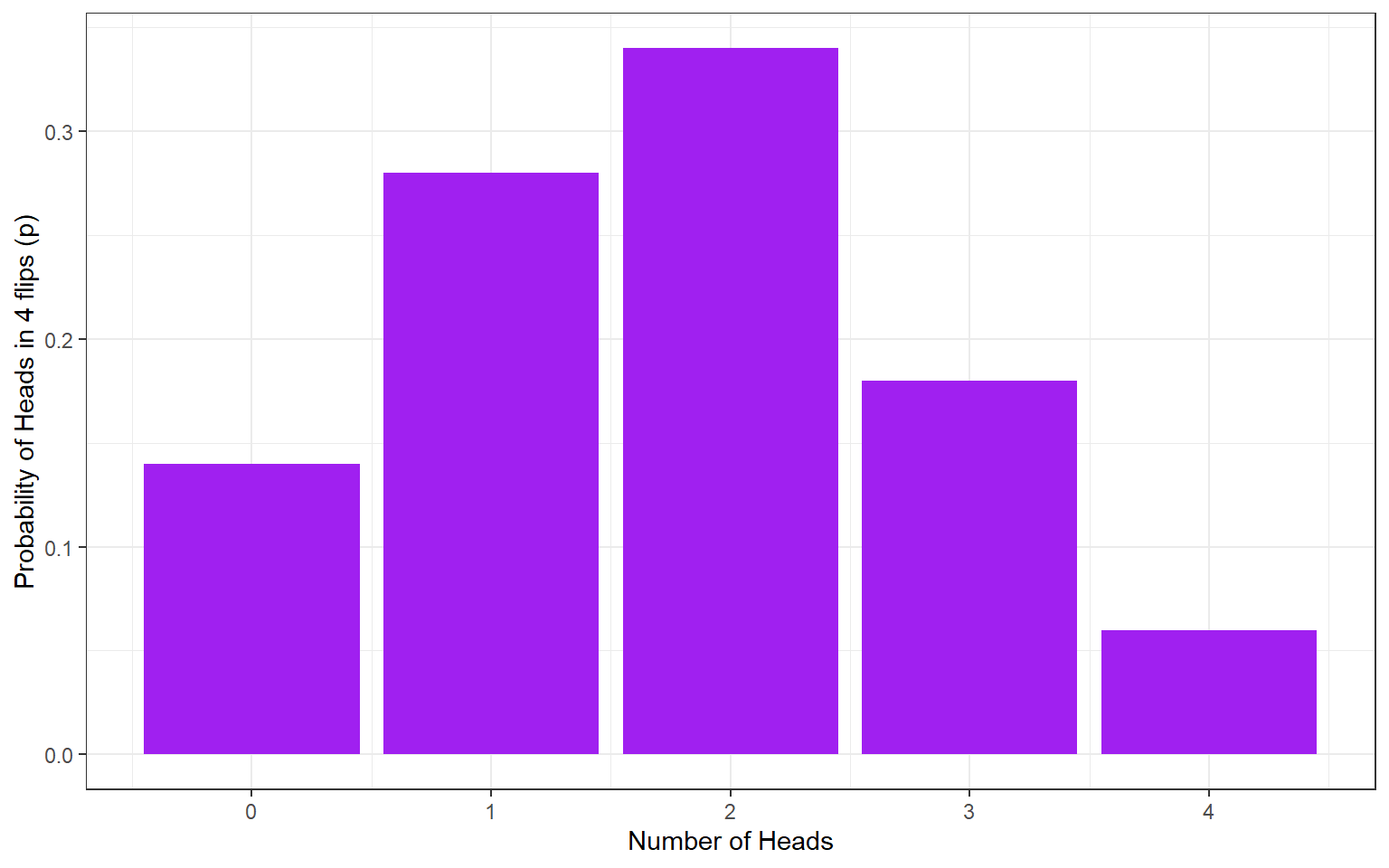
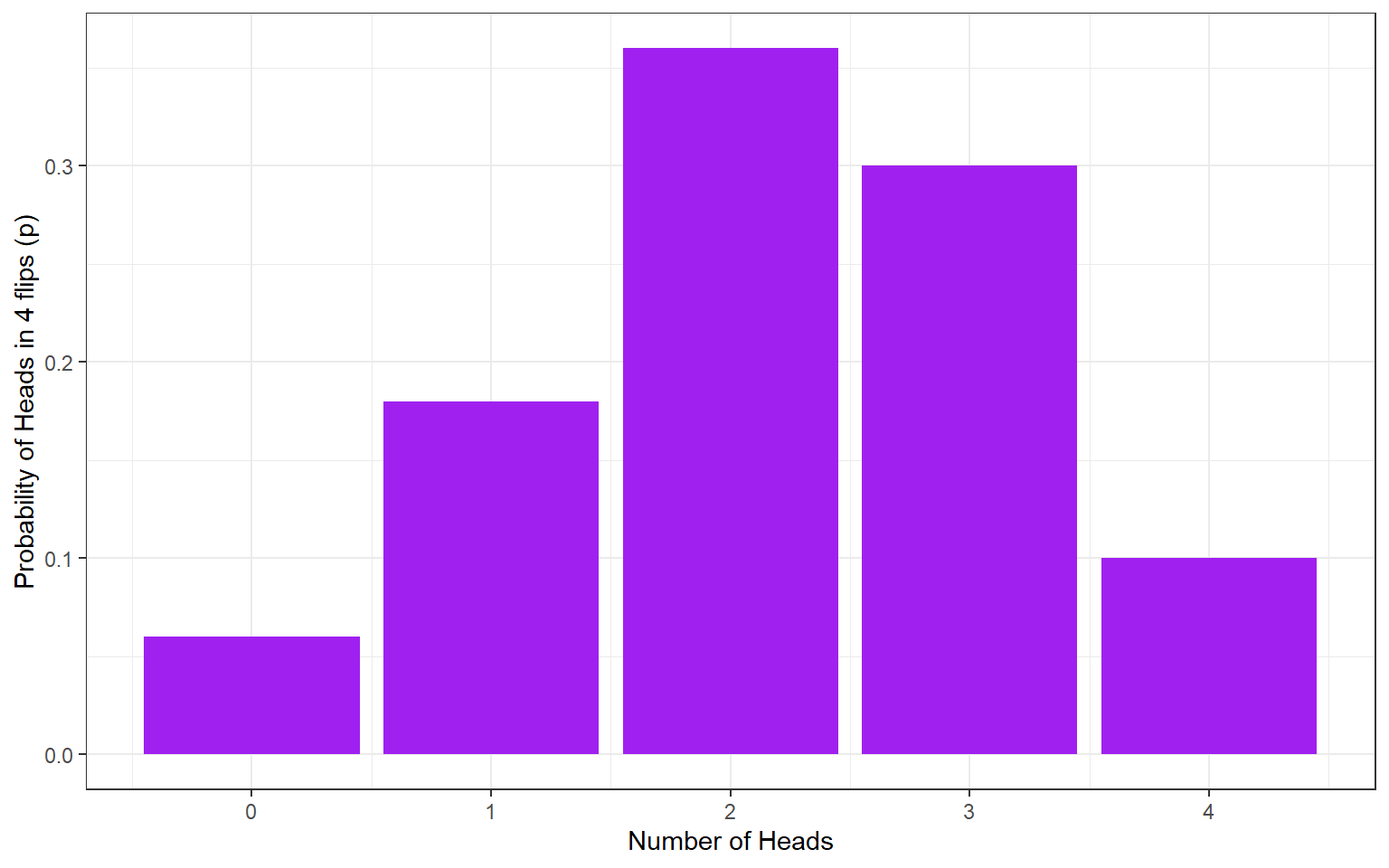
re-render

diff --git a/docs/lab-7.html b/docs/lab-7.html
@@ -325,13 +325,13 @@ For example, what is the probability of randomly drawing your name out of a hat 
 <pre class="sourceCode r"><code class="sourceCode r"><span class="co"># Notice that because our event labels are strings (text), </span>
 <span class="co"># we need to enter them into the function as a vector; i.e. in &quot;quotes&quot; </span>
 <span class="kw">sample</span>(<span class="dt">x =</span> <span class="kw">c</span>(<span class="st">&quot;HEADS&quot;</span>, <span class="st">&quot;TAILS&quot;</span>), <span class="dt">size =</span> <span class="dv">4</span>, <span class="dt">replace =</span> <span class="ot">TRUE</span>) </code></pre>
-<pre><code>## [1] &quot;TAILS&quot; &quot;HEADS&quot; &quot;TAILS&quot; &quot;TAILS&quot;</code></pre>
+<pre><code>## [1] &quot;HEADS&quot; &quot;TAILS&quot; &quot;HEADS&quot; &quot;TAILS&quot;</code></pre>
 <p>What you have done here is tell R that you want to sample observations from a set of data, which in this case was our vector <code>c("HEADS", "TAILS")</code>. <code>size</code> tells R the number of samples you want to take. We chose four, which is larger than the size of the vector itself (it has only two components; HEADS and TAILS). For this reason we need to override the default setting, which is sampling without replacement. Sampling without replacement means that once an observation appears in the sample, it is removed from the source vector so that it can’t be drawn again. Sampling with replacement means that an observation is retained so it can be drawn again. In this case, if we don’t override the default it would mean that if we tossed HEADS we wouldn’t be able to toss the coin and get HEADS again and we would get an error message because we’ve asked for more observations than are possible (we override this by setting replace to TRUE)</p>
 <p>It will make our lives easier if we define heads as one and tails as zero and write the same command as follows:</p>
 <pre class="sourceCode r"><code class="sourceCode r"><span class="co"># Now that our event labels are numeric, we don&#39;t need the combine function `c`</span>
 <span class="co"># 0:1 means all numbers from 0 to 1 in steps of 1. So basically, 0 and 1.</span>
 <span class="kw">sample</span>(<span class="dv">0</span><span class="op">:</span><span class="dv">1</span>, <span class="dv">4</span>, <span class="ot">TRUE</span>)</code></pre>
-<pre><code>## [1] 0 0 1 0</code></pre>
+<pre><code>## [1] 1 1 1 0</code></pre>
 </div>
 <div id="activity-4-sum" class="section level3">
 <h3><span class="header-section-number">7.1.8</span> Activity 4: sum</h3>
@@ -340,7 +340,7 @@ For example, what is the probability of randomly drawing your name out of a hat 
 <span class="co">#then the function sum() which counts up the number of heads.</span>
 
 <span class="kw">sample</span>(<span class="dv">0</span><span class="op">:</span><span class="dv">1</span>, <span class="dv">4</span>, <span class="ot">TRUE</span>) <span class="op">%&gt;%</span><span class="st"> </span><span class="kw">sum</span>()</code></pre>
-<pre><code>## [1] 2</code></pre>
+<pre><code>## [1] 3</code></pre>
 <p>Run this function multiple times (you can use the up arrow in the console to avoid having to type it over and over). I ran it five times the results of my little (N = 5) simulation of flipping four coins and counting heads were: 1, 3, 2, 2, and 3. So in only one out of the five simulations did I get exactly one heads.</p>
 </div>
 <div id="activity-5-replicate-1" class="section level3">
@@ -348,7 +348,7 @@ For example, what is the probability of randomly drawing your name out of a hat 
 <p>Let’s repeat the experiment a whole bunch more times. We can have R do this over and over again using the replicate() function from base R. The basic syntax of replicate() is replicate(number_of_times, expression_you_want_to_replicate). So</p>
 <pre class="sourceCode r"><code class="sourceCode r"><span class="co"># repeats the expression sample(0:1, 4, TRUE) %&gt;% sum() 20 times; the result comes out as a vector with each number represents a count of the number of heads over four flips in each of the 20 ’experiments’.</span>
 <span class="kw">replicate</span>(<span class="dt">n =</span> <span class="dv">20</span>, <span class="dt">expr =</span> <span class="kw">sample</span>(<span class="dv">0</span><span class="op">:</span><span class="dv">1</span>, <span class="dv">4</span>, <span class="ot">TRUE</span>) <span class="op">%&gt;%</span><span class="st"> </span><span class="kw">sum</span>())</code></pre>
-<pre><code>##  [1] 1 1 4 3 1 1 3 2 3 2 3 3 2 1 1 3 1 2 2 3</code></pre>
+<pre><code>##  [1] 4 0 2 3 3 0 1 2 3 2 4 2 1 1 1 4 0 2 3 1</code></pre>
 </div>
 <div id="monte-carlo-simulation" class="section level3">
 <h3><span class="header-section-number">7.1.10</span> Monte Carlo simulation</h3>
@@ -362,8 +362,8 @@ For example, what is the probability of randomly drawing your name out of a hat 
 heads50
 <span class="co"># this time we save the output in the variable heads50</span>
 <span class="co"># so we can work with the results further</span></code></pre>
-<pre><code>##  [1] 2 3 3 4 1 1 1 1 3 2 2 1 3 3 1 0 0 2 2 0 3 3 2 2 4 2 2 1 1 3 1 1 2 2 2
-## [36] 2 0 3 1 2 2 0 0 1 4 1 2 2 1 0</code></pre>
+<pre><code>##  [1] 1 1 3 2 3 3 2 2 3 0 4 2 3 1 3 2 2 2 2 1 3 2 3 1 0 2 3 3 2 2 3 4 1 3 2
+## [36] 4 2 1 0 1 3 3 2 2 2 2 4 1 4 3</code></pre>
 <p>Each of these numbers represents the number of heads from 4 coin tosses, repeated 50 times. The first 2 data points tell us that they each produced heads twice. Your results may differ, since sample() is random. In this case, four of the experiments yielded the outcome of 4/4 heads.</p>
 </div>
 <div id="activity-7-probability" class="section level3">
@@ -376,11 +376,11 @@ heads50
 <pre><code>## # A tibble: 5 x 3
 ##   heads     n     p
 ##   &lt;int&gt; &lt;int&gt; &lt;dbl&gt;
-## 1     0     7  0.14
-## 2     1    14  0.28
-## 3     2    17  0.34
-## 4     3     9  0.18
-## 5     4     3  0.06</code></pre>
+## 1     0     3  0.06
+## 2     1     9  0.18
+## 3     2    18  0.36
+## 4     3    15  0.3 
+## 5     4     5  0.1</code></pre>
 <p>What we have done here is created a variable <strong>heads50</strong> in a new tibble object that contains the results from our 50 experiments, grouped it by the values in <strong>heads50</strong> (0, 1, 2, 3, or 4), and counted the number of times each value was observed in summarise(n = n()), and then calculated the probability by dividing the newly created variable n by the number of experiments (50).</p>
 </div>
 <div id="activity-8-visualisation" class="section level3">
@@ -425,7 +425,7 @@ Figure 7.2: 10K coin toss probability outcomes.
 <pre><code>## # A tibble: 1 x 1
 ##      p2
 ##   &lt;dbl&gt;
-## 1 0.683</code></pre>
+## 1 0.685</code></pre>
 <p>You can add probabilities for various outcomes together as long as the outcomes are mutually exclusive, that is, when one outcome occurs, the others can’t occur. For this coin flipping example, this is obviously the case: you can’t simultaneously get exactly two and exactly three heads as the outcome of a single experiment. However, be aware that you can’t simply add probabilities together when the events in question are not mutually exclusive: for example, the probability of the coin landing heads up, and it landing with the image of the head being in a particular orientation are not mutually exclusive, and can’t be simply added together.</p>
 <p>Additionally, the probabilities we get from Monte Carlo simulations are just estimates; we need something more definitive.</p>
 </div>

diff --git a/docs/lab-4.html b/docs/lab-4.html
@@ -294,11 +294,11 @@ Visualisation is a fundamentally human activity. A good visualisation will show 
 <h3><span class="header-section-number">4.1.1</span> <span style="color:DARKGREEN"> dplyr Recap</span></h3>
 <p>In <a href="lab-3.html">Lab 3</a> we were introduced to the tidyverse package, <code>dplyr</code>, and its six important functions. As a recap, which function(s) would you use to approach each of the following problems?</p>
 <ul>
-<li><p>We have a dataset of 400 adults, but we want to remove anyone with an age of 50 years or more. To do this, we could use the <select class='solveme' data-answer='["filter()"]'> <option></option> <option>group_by()</option> <option>mutate()</option> <option>arrange()</option> <option>filter()</option> <option>summarise()</option> <option>select()</option></select> function.</p></li>
-<li><p>We are interested in overall summary statistics for our data, such as the overall average and total number of observations. To do this, we could use the <select class='solveme' data-answer='["summarise()"]'> <option></option> <option>select()</option> <option>filter()</option> <option>arrange()</option> <option>group_by()</option> <option>mutate()</option> <option>summarise()</option></select> function.</p></li>
-<li><p>Our dataset has a column with the number of cats a person has, and a column with the number of dogs. We want to calculate a new column which contains the total number of pets each participant has. To do this, we could use the <select class='solveme' data-answer='["mutate()"]'> <option></option> <option>summarise()</option> <option>arrange()</option> <option>select()</option> <option>filter()</option> <option>group_by()</option> <option>mutate()</option></select> function.</p></li>
-<li><p>We want to calculate the average for each participant in our dataset. To do this we could use the <select class='solveme' data-answer='["group_by() and summarise()"]'> <option></option> <option>arrange() and mutate()</option> <option>group_by() and arrange()</option> <option>group_by() and summarise()</option> <option>filter() and select()</option></select> functions.</p></li>
-<li><p>We want to order a dataframe of participants by the number of cats that they own, but want our new dataframe to only contain some of our columns. To do this we could use the <select class='solveme' data-answer='["mutate() and filter()","arrange() and select()"]'> <option></option> <option>mutate() and filter()</option> <option>select() and summarise()</option> <option>arrange() and select()</option> <option>group_by() and mutate()</option></select> functions.</p></li>
+<li><p>We have a dataset of 400 adults, but we want to remove anyone with an age of 50 years or more. To do this, we could use the <select class='solveme' data-answer='["filter()"]'> <option></option> <option>summarise()</option> <option>group_by()</option> <option>arrange()</option> <option>select()</option> <option>filter()</option> <option>mutate()</option></select> function.</p></li>
+<li><p>We are interested in overall summary statistics for our data, such as the overall average and total number of observations. To do this, we could use the <select class='solveme' data-answer='["summarise()"]'> <option></option> <option>select()</option> <option>group_by()</option> <option>filter()</option> <option>summarise()</option> <option>arrange()</option> <option>mutate()</option></select> function.</p></li>
+<li><p>Our dataset has a column with the number of cats a person has, and a column with the number of dogs. We want to calculate a new column which contains the total number of pets each participant has. To do this, we could use the <select class='solveme' data-answer='["mutate()"]'> <option></option> <option>group_by()</option> <option>mutate()</option> <option>select()</option> <option>arrange()</option> <option>filter()</option> <option>summarise()</option></select> function.</p></li>
+<li><p>We want to calculate the average for each participant in our dataset. To do this we could use the <select class='solveme' data-answer='["group_by() and summarise()"]'> <option></option> <option>arrange() and mutate()</option> <option>filter() and select()</option> <option>group_by() and summarise()</option> <option>group_by() and arrange()</option></select> functions.</p></li>
+<li><p>We want to order a dataframe of participants by the number of cats that they own, but want our new dataframe to only contain some of our columns. To do this we could use the <select class='solveme' data-answer='["arrange() and select()","mutate() and filter()"]'> <option></option> <option>select() and summarise()</option> <option>group_by() and mutate()</option> <option>arrange() and select()</option> <option>mutate() and filter()</option></select> functions.</p></li>
 </ul>
 </div>
 <div id="intro-to-plotting" class="section level3">

diff --git a/docs/lab-8.html b/docs/lab-8.html
@@ -293,10 +293,10 @@ code span.wa { color: #60a0b0; font-weight: bold; font-style: italic; } /* Warni
 <h4><span class="header-section-number">8.1.1.1</span> <span style="color:DARKGREEN"> Quickfire Questions</span></h4>
 <p>What kinds of data are the following examples of?</p>
 <ul>
-<li>Time taken to run a marathon (in seconds): <select class='solveme' data-answer='["ratio"]'> <option></option> <option>ordinal</option> <option>interval</option> <option>categorical</option> <option>ratio</option></select></li>
-<li>Finishing position in marathon (e.g. 1st, 2nd, 3rd): <select class='solveme' data-answer='["ordinal"]'> <option></option> <option>categorical</option> <option>ratio</option> <option>interval</option> <option>ordinal</option></select></li>
-<li>Which Sesame Street character a runner was dressed as: <select class='solveme' data-answer='["categorical"]'> <option></option> <option>interval</option> <option>ratio</option> <option>categorical</option> <option>ordinal</option></select></li>
-<li>Temperature of a runner dressed in a cookie monster outfit (in degrees Celsius): <select class='solveme' data-answer='["interval"]'> <option></option> <option>categorical</option> <option>interval</option> <option>ordinal</option> <option>ratio</option></select></li>
+<li>Time taken to run a marathon (in seconds): <select class='solveme' data-answer='["ratio"]'> <option></option> <option>categorical</option> <option>ordinal</option> <option>ratio</option> <option>interval</option></select></li>
+<li>Finishing position in marathon (e.g. 1st, 2nd, 3rd): <select class='solveme' data-answer='["ordinal"]'> <option></option> <option>categorical</option> <option>interval</option> <option>ordinal</option> <option>ratio</option></select></li>
+<li>Which Sesame Street character a runner was dressed as: <select class='solveme' data-answer='["categorical"]'> <option></option> <option>categorical</option> <option>ordinal</option> <option>interval</option> <option>ratio</option></select></li>
+<li>Temperature of a runner dressed in a cookie monster outfit (in degrees Celsius): <select class='solveme' data-answer='["interval"]'> <option></option> <option>categorical</option> <option>ratio</option> <option>ordinal</option> <option>interval</option></select></li>
 </ul>
 </div>
 </div>
@@ -327,9 +327,9 @@ Figure 2.1: A simulation of an experiment collecting height data from 2000 parti
 <h4><span class="header-section-number">8.1.3.1</span> <span style="color:DARKGREEN"> Quickfire Questions</span></h4>
 <p>Complete the sentences so that they are correct.</p>
 <ul>
-<li>In a normal distribution, the mean, median, and mode <select class='solveme' data-answer='["are all equal"]'> <option></option> <option>are all equal</option> <option>sum to zero</option> <option>are always interval data</option></select>.</li>
-<li>An example of data in which you might expect to see a normal distribution is <select class='solveme' data-answer='["the number of goals scored by Leeds United F.C."]'> <option></option> <option>the number of people who are right handed</option> <option>the number of heads observed out of 10 coin flips</option> <option>the number of goals scored by Leeds United F.C.</option></select>.</li>
-<li>Whereas the binomial distribution is based on situations in which there are two possible outcomes, the normal distribution is based on situations in which the data <select class='solveme' data-answer='["is a continuous variable"]'> <option></option> <option>is a categorical variable</option> <option>is a continuous variable</option> <option>has three possible values</option></select>.</li>
+<li>In a normal distribution, the mean, median, and mode <select class='solveme' data-answer='["are all equal"]'> <option></option> <option>are all equal</option> <option>are always interval data</option> <option>sum to zero</option></select>.</li>
+<li>An example of data in which you might expect to see a normal distribution is <select class='solveme' data-answer='["the number of goals scored by Leeds United F.C."]'> <option></option> <option>the number of people who are right handed</option> <option>the number of goals scored by Leeds United F.C.</option> <option>the number of heads observed out of 10 coin flips</option></select>.</li>
+<li>Whereas the binomial distribution is based on situations in which there are two possible outcomes, the normal distribution is based on situations in which the data <select class='solveme' data-answer='["is a continuous variable"]'> <option></option> <option>has three possible values</option> <option>is a categorical variable</option> <option>is a continuous variable</option></select>.</li>
 </ul>
 </div>
 </div>

diff --git a/docs/lab-6.html b/docs/lab-6.html
@@ -330,8 +330,8 @@ When you’re completing assessments and we want you to save the output from a c
 </div>
 <div id="quickfire-questions-1" class="section level4">
 <h4><span class="header-section-number">6.1.1.1</span> <span style="color:DARKGREEN"> Quickfire Questions</span></h4>
-<p>Which of the following is a pipe? <select class='solveme' data-answer='["%>%"]'> <option></option> <option>&gt;</option> <option>%&gt;%</option> <option>&amp;</option> <option>==</option></select></p>
-<p>Where do pipes send the result of the function that precedes the pipe? <select class='solveme' data-answer='["To the first argument of the next function."]'> <option></option> <option>To the third argument of the 18th function.</option> <option>To the first argument of the next function.</option> <option>To the last argument of the next function.</option> <option>To Ibiza.</option></select></p>
+<p>Which of the following is a pipe? <select class='solveme' data-answer='["%>%"]'> <option></option> <option>&amp;</option> <option>%&gt;%</option> <option>&gt;</option> <option>==</option></select></p>
+<p>Where do pipes send the result of the function that precedes the pipe? <select class='solveme' data-answer='["To the first argument of the next function."]'> <option></option> <option>To Ibiza.</option> <option>To the first argument of the next function.</option> <option>To the last argument of the next function.</option> <option>To the third argument of the 18th function.</option></select></p>
 <p>Are pipes a super-cool feature of the tidyverse that makes your code more readable and less verbose? <select class='solveme' data-answer='["yes","yes","yes","yes"]'> <option></option> <option>yes</option> <option>yes</option> <option>yes</option> <option>yes</option></select></p>
 </div>
 </div>
@@ -371,6 +371,21 @@ Solution
 </button>
 <pre class="sourceCode r"><code class="sourceCode r">rlong &lt;-<span class="st"> </span><span class="kw">gather</span>(<span class="dt">data =</span> responses, <span class="dt">key =</span> Question, <span class="dt">value =</span> Response, Q1<span class="op">:</span>Q10)</code></pre>
 </div>
+<div class="solution">
+<button>
+What should it look like?
+</button>
+<p>The first few rows should look like this:</p>
+<pre><code>## # A tibble: 6 x 3
+##      Id Question Response           
+##   &lt;dbl&gt; &lt;chr&gt;    &lt;chr&gt;              
+## 1    16 Q1       Slightly Disagree  
+## 2    17 Q1       Definitely Agree   
+## 3    18 Q1       Definitely Agree   
+## 4    19 Q1       Definitely Agree   
+## 5    20 Q1       Definitely Disagree
+## 6    21 Q1       Slightly Disagree</code></pre>
+</div>
 </div>
 <div id="activity-4-inner_join-qformat" class="section level3">
 <h3><span class="header-section-number">6.2.4</span> Activity 4: inner_join (QFormat)</h3>
@@ -385,6 +400,7 @@ Solution
 <button>
 What should it look like?
 </button>
+<p>The first few rows should look like this:</p>
 <pre><code>## # A tibble: 6 x 4
 ##      Id Question Response            QFormat
 ##   &lt;dbl&gt; &lt;chr&gt;    &lt;chr&gt;               &lt;chr&gt;  
@@ -409,6 +425,7 @@ Solution
 <button>
 What should it look like?
 </button>
+<p>The first few rows should look like this:</p>
 <pre><code>## # A tibble: 6 x 5
 ##      Id Question Response            QFormat Score
 ##   &lt;dbl&gt; &lt;chr&gt;    &lt;chr&gt;               &lt;chr&gt;   &lt;dbl&gt;
@@ -443,6 +460,7 @@ Solution
 <button>
 What should it look like?
 </button>
+<p>The first few rows should look like this:</p>
 <pre><code>## # A tibble: 6 x 2
 ##      Id    AQ
 ##   &lt;dbl&gt; &lt;dbl&gt;

diff --git a/docs/lab-2.html b/docs/lab-2.html
@@ -329,9 +329,9 @@ Figure 2.3: Setting your working directory
 <div id="quickfire-questions" class="section level4">
 <h4><span class="header-section-number">2.1.3.1</span> <span style="color:DARKGREEN"> Quickfire Questions</span></h4>
 <ul>
-<li><p>Which of the following is most likely to be an argument? <select class='solveme' data-answer='["35"]'> <option></option> <option>&lt;-</option> <option>35</option> <option>read_csv()</option></select></p></li>
-<li><p>An easy way to spot functions is to look for <select class='solveme' data-answer='["brackets"]'> <option></option> <option>computers</option> <option>brackets</option> <option>numbers</option></select>.</p></li>
-<li><p>The job of <code>&lt;-</code> is to send the output from the function to a/an <select class='solveme' data-answer='["variable"]'> <option></option> <option>argument</option> <option>variable</option> <option>assignment</option></select>.</p></li>
+<li><p>Which of the following is most likely to be an argument? <select class='solveme' data-answer='["35"]'> <option></option> <option>read_csv()</option> <option>&lt;-</option> <option>35</option></select></p></li>
+<li><p>An easy way to spot functions is to look for <select class='solveme' data-answer='["brackets"]'> <option></option> <option>numbers</option> <option>computers</option> <option>brackets</option></select>.</p></li>
+<li><p>The job of <code>&lt;-</code> is to send the output from the function to a/an <select class='solveme' data-answer='["variable"]'> <option></option> <option>argument</option> <option>assignment</option> <option>variable</option></select>.</p></li>
 </ul>
 </div>
 </div>

diff --git a/docs/04-lab04.md b/docs/04-lab04.md
@@ -22,15 +22,15 @@ As Grolemund and Wickham tell us:
 
 In [Lab 3](lab-3.html) we were introduced to the tidyverse package, `dplyr`, and its six important functions. As a recap, which function(s) would you use to approach each of the following problems?
 
-* We have a dataset of 400 adults, but we want to remove anyone with an age of 50 years or more. To do this, we could use the <select class='solveme' data-answer='["filter()"]'> <option></option> <option>group_by()</option> <option>mutate()</option> <option>arrange()</option> <option>filter()</option> <option>summarise()</option> <option>select()</option></select> function.
+* We have a dataset of 400 adults, but we want to remove anyone with an age of 50 years or more. To do this, we could use the <select class='solveme' data-answer='["filter()"]'> <option></option> <option>summarise()</option> <option>group_by()</option> <option>arrange()</option> <option>select()</option> <option>filter()</option> <option>mutate()</option></select> function.
 
-* We are interested in overall summary statistics for our data, such as the overall average and total number of observations. To do this, we could use the <select class='solveme' data-answer='["summarise()"]'> <option></option> <option>select()</option> <option>filter()</option> <option>arrange()</option> <option>group_by()</option> <option>mutate()</option> <option>summarise()</option></select> function.
+* We are interested in overall summary statistics for our data, such as the overall average and total number of observations. To do this, we could use the <select class='solveme' data-answer='["summarise()"]'> <option></option> <option>select()</option> <option>group_by()</option> <option>filter()</option> <option>summarise()</option> <option>arrange()</option> <option>mutate()</option></select> function.
 
-* Our dataset has a column with the number of cats a person has, and a column with the number of dogs. We want to calculate a new column which contains the total number of pets each participant has. To do this, we could use the <select class='solveme' data-answer='["mutate()"]'> <option></option> <option>summarise()</option> <option>arrange()</option> <option>select()</option> <option>filter()</option> <option>group_by()</option> <option>mutate()</option></select> function.
+* Our dataset has a column with the number of cats a person has, and a column with the number of dogs. We want to calculate a new column which contains the total number of pets each participant has. To do this, we could use the <select class='solveme' data-answer='["mutate()"]'> <option></option> <option>group_by()</option> <option>mutate()</option> <option>select()</option> <option>arrange()</option> <option>filter()</option> <option>summarise()</option></select> function.
 
-* We want to calculate the average for each participant in our dataset. To do this we could use the <select class='solveme' data-answer='["group_by() and summarise()"]'> <option></option> <option>arrange() and mutate()</option> <option>group_by() and arrange()</option> <option>group_by() and summarise()</option> <option>filter() and select()</option></select> functions.
+* We want to calculate the average for each participant in our dataset. To do this we could use the <select class='solveme' data-answer='["group_by() and summarise()"]'> <option></option> <option>arrange() and mutate()</option> <option>filter() and select()</option> <option>group_by() and summarise()</option> <option>group_by() and arrange()</option></select> functions.
 
-* We want to order a dataframe of participants by the number of cats that they own, but want our new dataframe to only contain some of our columns. To do this we could use the <select class='solveme' data-answer='["mutate() and filter()","arrange() and select()"]'> <option></option> <option>mutate() and filter()</option> <option>select() and summarise()</option> <option>arrange() and select()</option> <option>group_by() and mutate()</option></select> functions.
+* We want to order a dataframe of participants by the number of cats that they own, but want our new dataframe to only contain some of our columns. To do this we could use the <select class='solveme' data-answer='["arrange() and select()","mutate() and filter()"]'> <option></option> <option>select() and summarise()</option> <option>group_by() and mutate()</option> <option>arrange() and select()</option> <option>mutate() and filter()</option></select> functions.
 
 ### Intro to Plotting
 

diff --git a/docs/08-lab08.md b/docs/08-lab08.md
@@ -29,10 +29,10 @@ When you read journal articles or when you are working with data in the lab, it 
 
 What kinds of data are the following examples of?
 
-* Time taken to run a marathon (in seconds): <select class='solveme' data-answer='["ratio"]'> <option></option> <option>ordinal</option> <option>interval</option> <option>categorical</option> <option>ratio</option></select>
-* Finishing position in marathon (e.g. 1st, 2nd, 3rd): <select class='solveme' data-answer='["ordinal"]'> <option></option> <option>categorical</option> <option>ratio</option> <option>interval</option> <option>ordinal</option></select>
-* Which Sesame Street character a runner was dressed as: <select class='solveme' data-answer='["categorical"]'> <option></option> <option>interval</option> <option>ratio</option> <option>categorical</option> <option>ordinal</option></select>
-* Temperature of a runner dressed in a cookie monster outfit (in degrees Celsius): <select class='solveme' data-answer='["interval"]'> <option></option> <option>categorical</option> <option>interval</option> <option>ordinal</option> <option>ratio</option></select>
+* Time taken to run a marathon (in seconds): <select class='solveme' data-answer='["ratio"]'> <option></option> <option>categorical</option> <option>ordinal</option> <option>ratio</option> <option>interval</option></select>
+* Finishing position in marathon (e.g. 1st, 2nd, 3rd): <select class='solveme' data-answer='["ordinal"]'> <option></option> <option>categorical</option> <option>interval</option> <option>ordinal</option> <option>ratio</option></select>
+* Which Sesame Street character a runner was dressed as: <select class='solveme' data-answer='["categorical"]'> <option></option> <option>categorical</option> <option>ordinal</option> <option>interval</option> <option>ratio</option></select>
+* Temperature of a runner dressed in a cookie monster outfit (in degrees Celsius): <select class='solveme' data-answer='["interval"]'> <option></option> <option>categorical</option> <option>ratio</option> <option>ordinal</option> <option>interval</option></select>
 
 ### Binomial Distributions Recap
 
@@ -64,9 +64,9 @@ As with any probabilities, real-world data will come close to the normal distrib
 
 Complete the sentences so that they are correct.
 
-* In a normal distribution, the mean, median, and mode <select class='solveme' data-answer='["are all equal"]'> <option></option> <option>are all equal</option> <option>sum to zero</option> <option>are always interval data</option></select>.
-* An example of data in which you might expect to see a normal distribution is <select class='solveme' data-answer='["the number of goals scored by Leeds United F.C."]'> <option></option> <option>the number of people who are right handed</option> <option>the number of heads observed out of 10 coin flips</option> <option>the number of goals scored by Leeds United F.C.</option></select>.
-* Whereas the binomial distribution is based on situations in which there are two possible outcomes, the normal distribution is based on situations in which the data <select class='solveme' data-answer='["is a continuous variable"]'> <option></option> <option>is a categorical variable</option> <option>is a continuous variable</option> <option>has three possible values</option></select>.
+* In a normal distribution, the mean, median, and mode <select class='solveme' data-answer='["are all equal"]'> <option></option> <option>are all equal</option> <option>are always interval data</option> <option>sum to zero</option></select>.
+* An example of data in which you might expect to see a normal distribution is <select class='solveme' data-answer='["the number of goals scored by Leeds United F.C."]'> <option></option> <option>the number of people who are right handed</option> <option>the number of goals scored by Leeds United F.C.</option> <option>the number of heads observed out of 10 coin flips</option></select>.
+* Whereas the binomial distribution is based on situations in which there are two possible outcomes, the normal distribution is based on situations in which the data <select class='solveme' data-answer='["is a continuous variable"]'> <option></option> <option>has three possible values</option> <option>is a categorical variable</option> <option>is a continuous variable</option></select>.
 
 ### Working with the Normal Distribution
 

diff --git a/docs/07-lab07.md b/docs/07-lab07.md
@@ -70,7 +70,7 @@ sample(x = c("HEADS", "TAILS"), size = 4, replace = TRUE)
 ```
 
 ```
-## [1] "TAILS" "HEADS" "TAILS" "TAILS"
+## [1] "HEADS" "TAILS" "HEADS" "TAILS"
 ```
 
 What you have done here is tell R that you want to sample observations from a set of data, which in this case was our vector `c("HEADS", "TAILS")`. `size` tells R the number of samples you want to take. We chose four, which is larger than the size of the vector itself (it has only two components; HEADS and TAILS). For this reason we need to override the default setting, which is sampling without replacement. Sampling without replacement means that once an observation appears in the sample, it is removed from the source vector so that it can’t be drawn again. Sampling with replacement means that an observation is retained so it can be drawn again. In this case, if we don't override the default it would mean that if we tossed HEADS we wouldn't be able to toss the coin and get HEADS again and we would get an error message because we've asked for more observations than are possible (we override this by setting replace to TRUE)
@@ -84,7 +84,7 @@ sample(0:1, 4, TRUE)
 ```
 
 ```
-## [1] 0 0 1 0
+## [1] 1 1 1 0
 ```
 
 ### Activity 4: sum
@@ -99,7 +99,7 @@ sample(0:1, 4, TRUE) %>% sum()
 ```
 
 ```
-## [1] 2
+## [1] 3
 ```
  
 Run this function multiple times (you can use the up arrow in the console to avoid having to type it over and over). I ran it five times the results of my little (N = 5) simulation of flipping four coins and counting heads were: 1, 3, 2, 2, and 3. So in only one out of the five simulations did I get exactly one heads.
@@ -115,7 +115,7 @@ replicate(n = 20, expr = sample(0:1, 4, TRUE) %>% sum())
 ```
 
 ```
-##  [1] 1 1 4 3 1 1 3 2 3 2 3 3 2 1 1 3 1 2 2 3
+##  [1] 4 0 2 3 3 0 1 2 3 2 4 2 1 1 1 4 0 2 3 1
 ```
 
 ### Monte Carlo simulation
@@ -136,8 +136,8 @@ heads50
 ```
 
 ```
-##  [1] 2 3 3 4 1 1 1 1 3 2 2 1 3 3 1 0 0 2 2 0 3 3 2 2 4 2 2 1 1 3 1 1 2 2 2
-## [36] 2 0 3 1 2 2 0 0 1 4 1 2 2 1 0
+##  [1] 1 1 3 2 3 3 2 2 3 0 4 2 3 1 3 2 2 2 2 1 3 2 3 1 0 2 3 3 2 2 3 4 1 3 2
+## [36] 4 2 1 0 1 3 3 2 2 2 2 4 1 4 3
 ```
 
 Each of these numbers represents the number of heads from 4 coin tosses, repeated 50 times. The first 2 data points tell us that they each produced heads twice. Your results may differ, since sample() is random. In this case, four of the experiments yielded the outcome of 4/4 heads.
@@ -159,11 +159,11 @@ data50 <- tibble(heads = heads50) %>%   # convert to a tibble
 ## # A tibble: 5 x 3
 ##   heads     n     p
 ##   <int> <int> <dbl>
-## 1     0     7  0.14
-## 2     1    14  0.28
-## 3     2    17  0.34
-## 4     3     9  0.18
-## 5     4     3  0.06
+## 1     0     3  0.06
+## 2     1     9  0.18
+## 3     2    18  0.36
+## 4     3    15  0.3 
+## 5     4     5  0.1
 ```
 
 
@@ -229,7 +229,7 @@ data10K %>%
 ## # A tibble: 1 x 1
 ##      p2
 ##   <dbl>
-## 1 0.683
+## 1 0.685
 ```
 
 You can add probabilities for various outcomes together as long as the outcomes are mutually exclusive, that is, when one outcome occurs, the others can't occur. For this coin flipping example, this is obviously the case: you can't simultaneously get exactly two and exactly three heads as the outcome of a single experiment. However, be aware that you can't simply add probabilities together when the events in question are not mutually exclusive: for example, the probability of the coin landing heads up, and it landing with the image of the head being in a particular orientation are not mutually exclusive, and can't be simply added together.

diff --git a/docs/06-lab06.md b/docs/06-lab06.md
@@ -64,9 +64,9 @@ Pipes might seem a little confusing at first - one way to make it easier to unde
 
 #### <span style="color:DARKGREEN"> Quickfire Questions</span>
 
-Which of the following is a pipe? <select class='solveme' data-answer='["%>%"]'> <option></option> <option>></option> <option>%>%</option> <option>&</option> <option>==</option></select>
+Which of the following is a pipe? <select class='solveme' data-answer='["%>%"]'> <option></option> <option>&</option> <option>%>%</option> <option>></option> <option>==</option></select>
 
-Where do pipes send the result of the function that precedes the pipe? <select class='solveme' data-answer='["To the first argument of the next function."]'> <option></option> <option>To the third argument of the 18th function.</option> <option>To the first argument of the next function.</option> <option>To the last argument of the next function.</option> <option>To Ibiza.</option></select>
+Where do pipes send the result of the function that precedes the pipe? <select class='solveme' data-answer='["To the first argument of the next function."]'> <option></option> <option>To Ibiza.</option> <option>To the first argument of the next function.</option> <option>To the last argument of the next function.</option> <option>To the third argument of the 18th function.</option></select>
 
 Are pipes a super-cool feature of the tidyverse that makes your code more readable and less verbose? <select class='solveme' data-answer='["yes","yes","yes","yes"]'> <option></option> <option>yes</option> <option>yes</option> <option>yes</option> <option>yes</option></select>
 
@@ -128,6 +128,29 @@ rlong <- gather(data = responses, key = Question, value = Response, Q1:Q10)
 </div>
 
 
+
+<div class='solution'><button>What should it look like?</button>
+
+
+The first few rows should look like this:
+
+
+```
+## # A tibble: 6 x 3
+##      Id Question Response           
+##   <dbl> <chr>    <chr>              
+## 1    16 Q1       Slightly Disagree  
+## 2    17 Q1       Definitely Agree   
+## 3    18 Q1       Definitely Agree   
+## 4    19 Q1       Definitely Agree   
+## 5    20 Q1       Definitely Disagree
+## 6    21 Q1       Slightly Disagree
+```
+
+
+</div>
+
+
 ### Activity 4: inner_join (QFormat)
 Now use inner_join to add in the question format (QFormat) for each question and store it in ```rlong2```. This should now have 4 columns showing Id, Question, Response and QFormat.
 
@@ -147,6 +170,8 @@ rlong2 <- inner_join(rlong, qformats, "Question")
 
 <div class='solution'><button>What should it look like?</button>
 
+
+The first few rows should look like this:
 
 
 ```
@@ -185,6 +210,8 @@ rscores <- inner_join(rlong2, scoring, c("QFormat", "Response"))
 
 <div class='solution'><button>What should it look like?</button>
 
+
+The first few rows should look like this:
 
 
 ```
@@ -240,6 +267,8 @@ aq_scores2 <- summarise(aq_scores1, AQ = sum(Score))
 
 <div class='solution'><button>What should it look like?</button>
 
+
+The first few rows should look like this:
 
 
 ```

diff --git a/docs/02-lab02.md b/docs/02-lab02.md
@@ -61,11 +61,11 @@ experiment_data <- read_csv('experiment_data.csv')
 
 #### <span style="color:DARKGREEN"> Quickfire Questions</span>
 
-* Which of the following is most likely to be an argument? <select class='solveme' data-answer='["35"]'> <option></option> <option><-</option> <option>35</option> <option>read_csv()</option></select>
+* Which of the following is most likely to be an argument? <select class='solveme' data-answer='["35"]'> <option></option> <option>read_csv()</option> <option><-</option> <option>35</option></select>
 
-* An easy way to spot functions is to look for <select class='solveme' data-answer='["brackets"]'> <option></option> <option>computers</option> <option>brackets</option> <option>numbers</option></select>.
+* An easy way to spot functions is to look for <select class='solveme' data-answer='["brackets"]'> <option></option> <option>numbers</option> <option>computers</option> <option>brackets</option></select>.
 
-* The job of `<-` is to send the output from the function to a/an <select class='solveme' data-answer='["variable"]'> <option></option> <option>argument</option> <option>variable</option> <option>assignment</option></select>.
+* The job of `<-` is to send the output from the function to a/an <select class='solveme' data-answer='["variable"]'> <option></option> <option>argument</option> <option>assignment</option> <option>variable</option></select>.
 
 ### Important information on our homework worksheets
 So that we can see your progress in data management skills we are using a worksheet format **for the homework only** called R Markdown (abbreviated as Rmd) which is a great way to create dynamic documents with embedded chunks of code. These documents are self-contained and fully reproducible which makes it very easy to share. This is an important part of your open science training as one of the reasons we are using RStudio is that it enables us to share open and reproducible information. The reason we are using these worksheets in this format is so that you are given a task and then can fill in the required code. 
